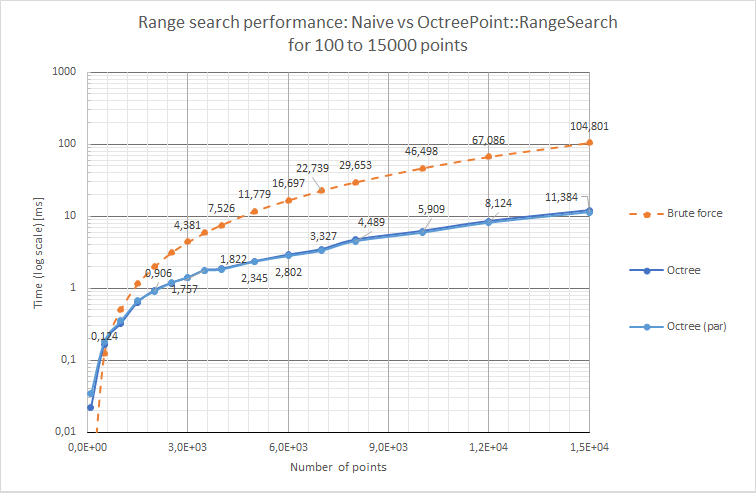
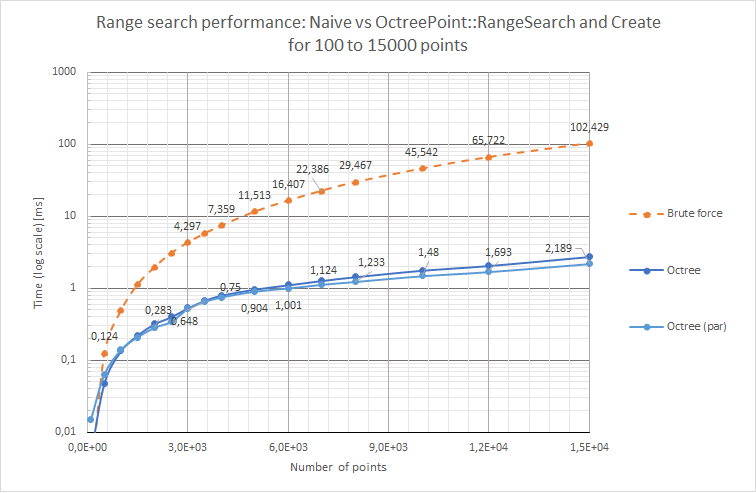
Update benchmarks

diff --git a/benchmarks/benchmarks.cpp b/benchmarks/benchmarks.cpp
@@ -502,8 +502,9 @@ namespace
 
   autoce aSizeLog = array{ 10, 50, 100, 1000, 2500, 5000, 7500, 10000, 100000, N1M, 10 * N1M, 100 * N1M };
   autoce nSizeLog = aSizeLog.size();
+
   autoce aRepeatLog = array{ 100000, 100000, 10000, 2000, 1000, 500, 500, 100, 100, 10, 10, 5 };
-  //static_assert(nSizeLog == aRepeatLog.size());
+  static_assert(nSizeLog == aRepeatLog.size());
 
 
   template<size_t N>
@@ -663,7 +664,6 @@ int main()
   report.open("report.csv");
 
   autoce nDepth = 5;
-  
   {
     autoc szName = string("Diagonally placed points");
     autoc aPointDiag_100M = GenerateGeometry<N, vector<PointND<N>>>([&] { return CreatePoints_Diagonal<N, 100 * N1M>(); }, szName, 100, report);
@@ -706,12 +706,11 @@ int main()
     RunTasks(vTask, report);
   }
   
-  
   // Morton vs Dynamic
   {
     autoc szName = string("Cylindrical semi-random placed points Morton vs Dynamic");
-    autoc aPoint = GenerateGeometry<N, vector<PointND<N>>>([&] { return CreatePoints_Random<N, 10*N1M>(); }, szName, 10, report);
-    autoc aBox = GenerateGeometry<N, vector<BoundingBoxND<N>>>([&] { return CreateBoxes_Random<N, 10 * N1M>(); }, szName, 10, report);
+    autoc aPoint = GenerateGeometry<N, vector<PointND<N>>>([&] { return CreatePoints_Random<N, 100*N1M>(); }, szName, 100, report);
+    autoc aBox = GenerateGeometry<N, vector<BoundingBoxND<N>>>([&] { return CreateBoxes_Random<N, 100 * N1M>(); }, szName, 100, report);
 
     autoc vTaskMortonP = GeneratePointTasks<N>(nDepth, "Morton point", aPoint);
     autoc vTaskDynP = GeneratePointDynTasks_NonLog<N>(nDepth, "Dynamic point", aPoint);
